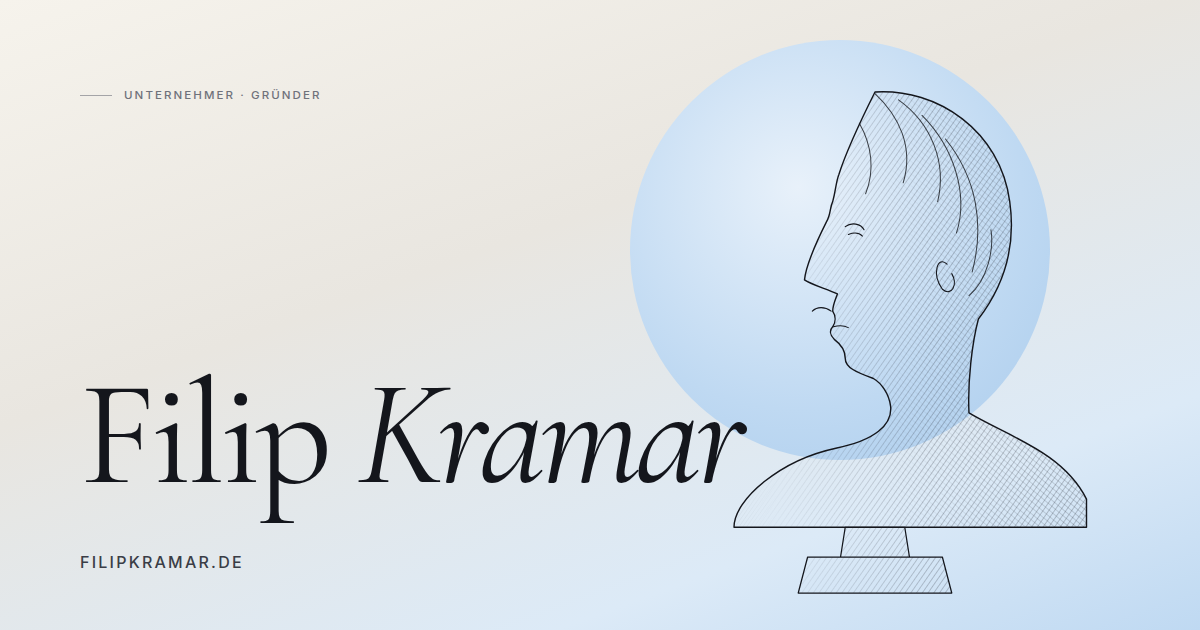
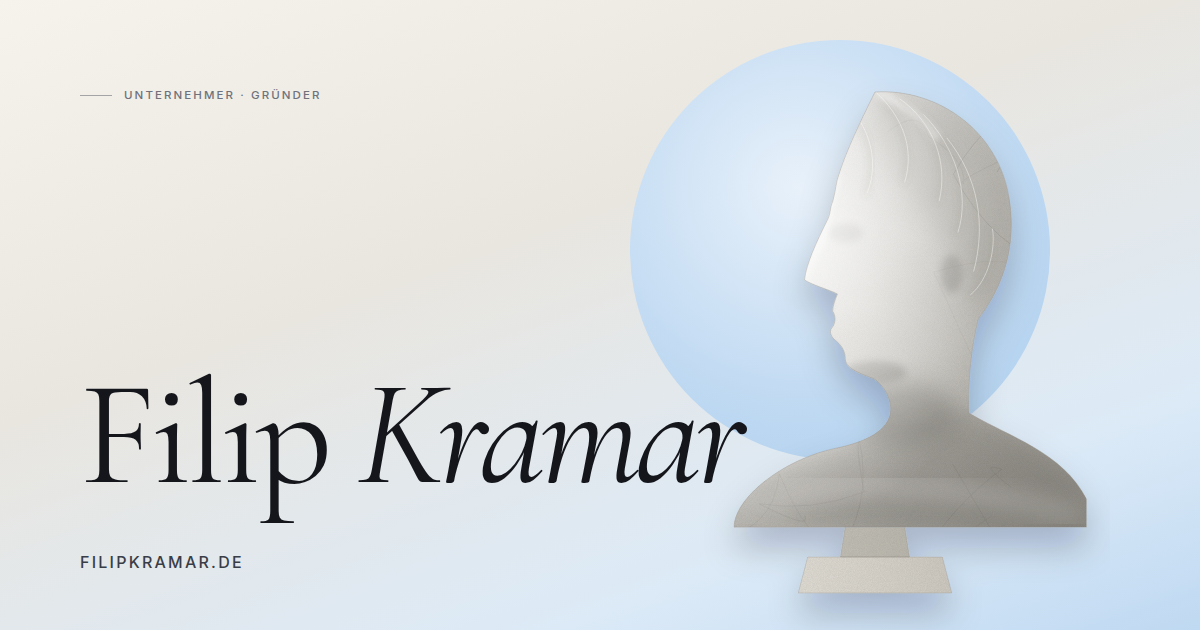
Marmor-Statue: plastisch schattierte Büste statt Linienzeichnung im Hero und OG-Bild
Claude-Session: https://claude.ai/code/session_014WRUKv1o5X8oTWfQnY2gLK

Changed region(s): [[0.5858, 0.1508, 0.925, 0.9952]]

diff --git a/index.html b/index.html
@@ -20,7 +20,7 @@
 <link rel="manifest" href="site.webmanifest">
 <link rel="preload" as="font" type="font/woff2" href="assets/fonts/cormorant-garamond-400-latin.woff2" crossorigin>
 <link rel="preload" as="font" type="font/woff2" href="assets/fonts/inter-400-latin.woff2" crossorigin>
-<link rel="preload" as="image" href="assets/img/art/bust-profile.svg">
+<link rel="preload" as="image" href="assets/img/art/bust-marble.svg">
 <link rel="stylesheet" href="style.css">
 <script>document.documentElement.classList.remove('no-js');document.documentElement.classList.add('js');</script>
 </head>
@@ -82,7 +82,7 @@
     <div class="hero__glow" aria-hidden="true" data-hero-glow></div>
     <div class="hero__grid" aria-hidden="true"></div>
     <div class="hero__art" data-hero-art>
-      <img src="assets/img/art/bust-profile.svg" alt="" width="600" height="760" fetchpriority="high" data-slot="hero-art">
+      <img src="assets/img/art/bust-marble.svg" alt="" width="600" height="760" fetchpriority="high" data-slot="hero-art">
     </div>
     <p class="hero__caption" data-hero-caption><span>Fig. I</span> — Filip Kramar, [[PLATZHALTER: Stadt]] · MMXXVI</p>
     <aside class="hero__card glass" data-hero-card aria-label="Kurzprofil">

diff --git a/style.css b/style.css
@@ -218,8 +218,7 @@ body.menu-open .nav__cta{opacity:0;pointer-events:none}
   background-image:repeating-linear-gradient(90deg,var(--line) 0 1px,transparent 1px 25%);
   -webkit-mask:linear-gradient(to bottom,transparent,#000 30%,#000 70%,transparent);mask:linear-gradient(to bottom,transparent,#000 30%,#000 70%,transparent);
 }
-.hero__art{position:absolute;right:clamp(2%,8vw,12%);bottom:0;width:min(74vh,58vw);pointer-events:none;
-  filter:drop-shadow(0 30px 40px rgba(20,22,28,.12))}
+.hero__art{position:absolute;right:clamp(2%,8vw,12%);bottom:0;width:min(74vh,58vw);pointer-events:none}
 .hero__art img{width:100%}
 .hero__caption{
   position:absolute;right:var(--gutter);bottom:1.6rem;margin:0;

diff --git a/assets/og/og-template.html b/assets/og/og-template.html
@@ -20,7 +20,7 @@
 <body>
 <div class="og" id="og">
   <div class="disc"></div>
-  <img class="art" src="../img/art/bust-profile.svg" alt="">
+  <img class="art" src="../img/art/bust-marble.svg" alt="">
   <p class="eyebrow">Unternehmer · Gründer</p>
   <h1>Filip <em>Kramar</em></h1>
   <p class="url">filipkramar.de</p>
